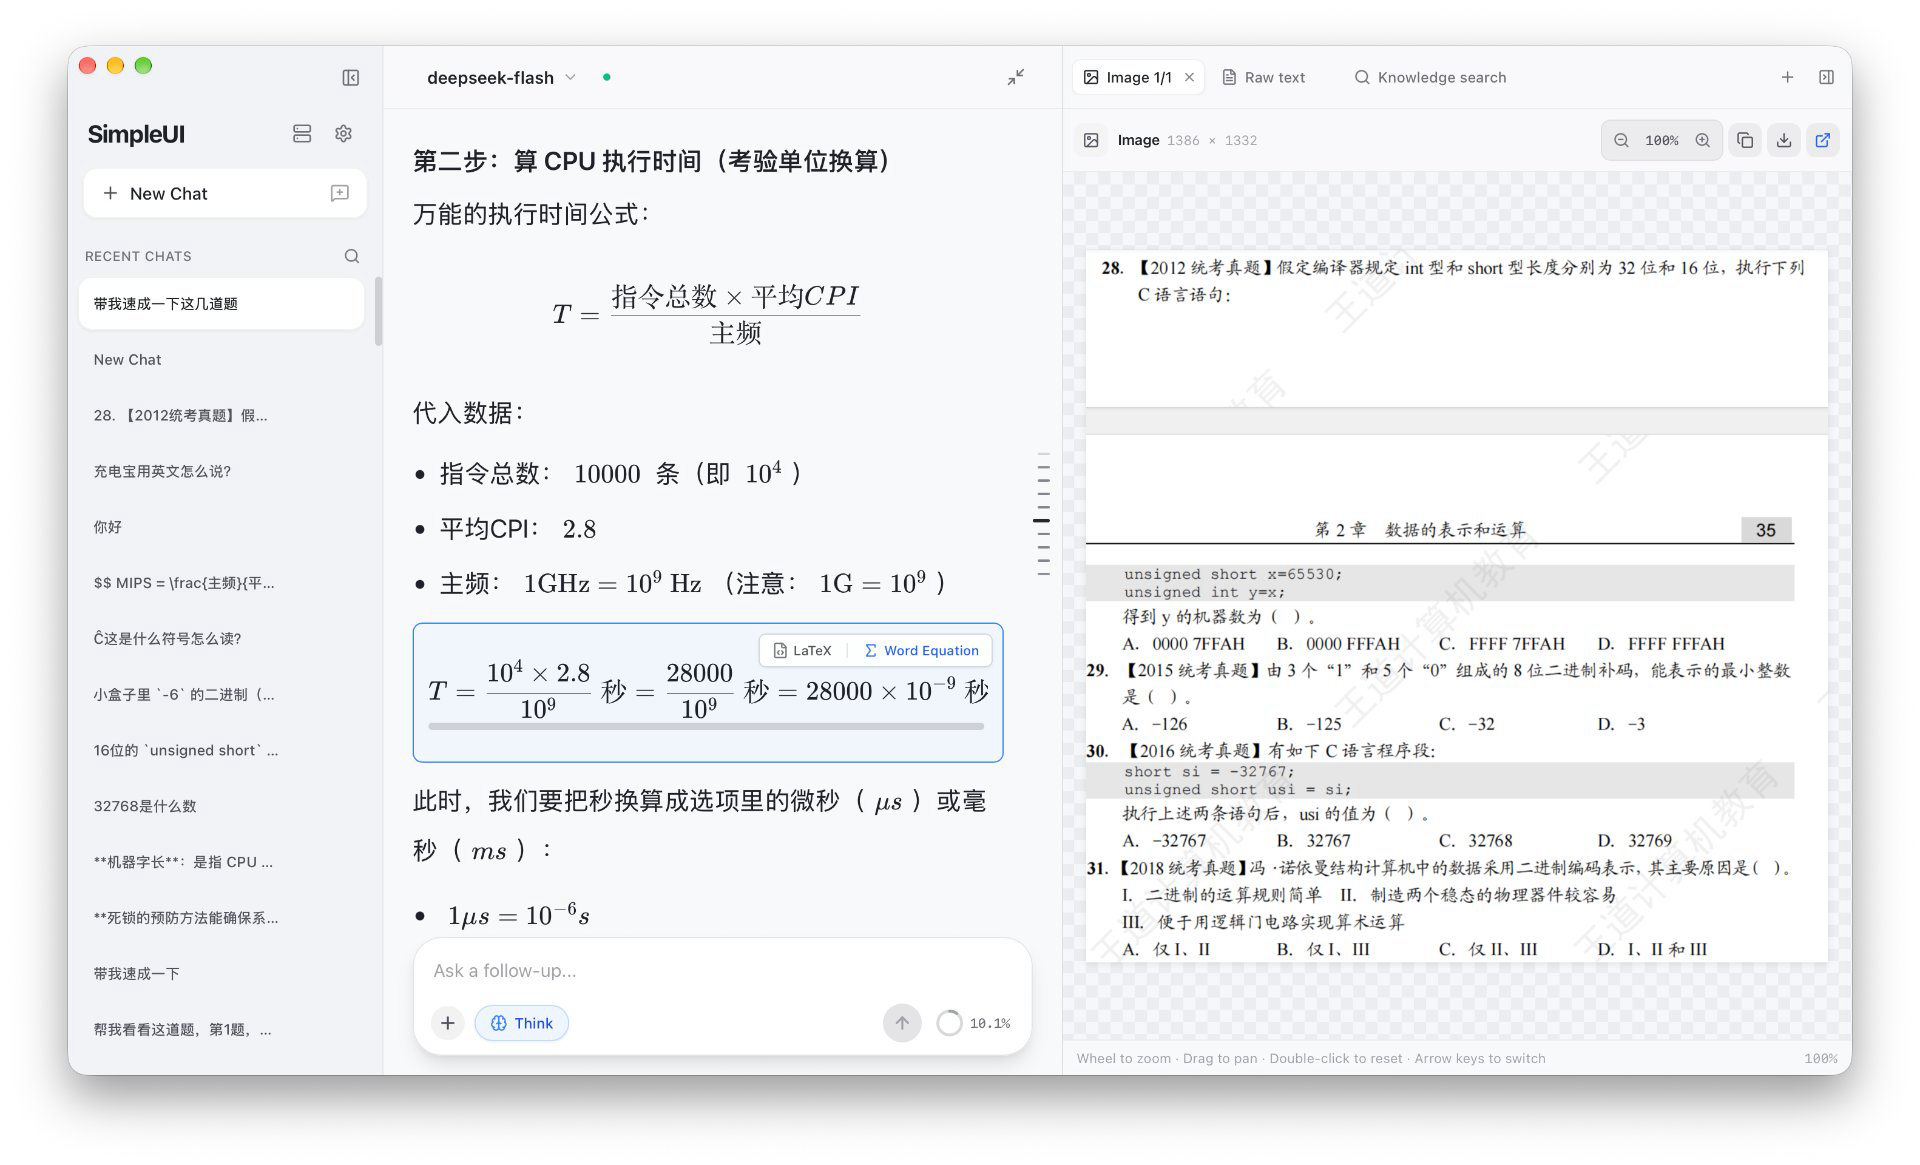
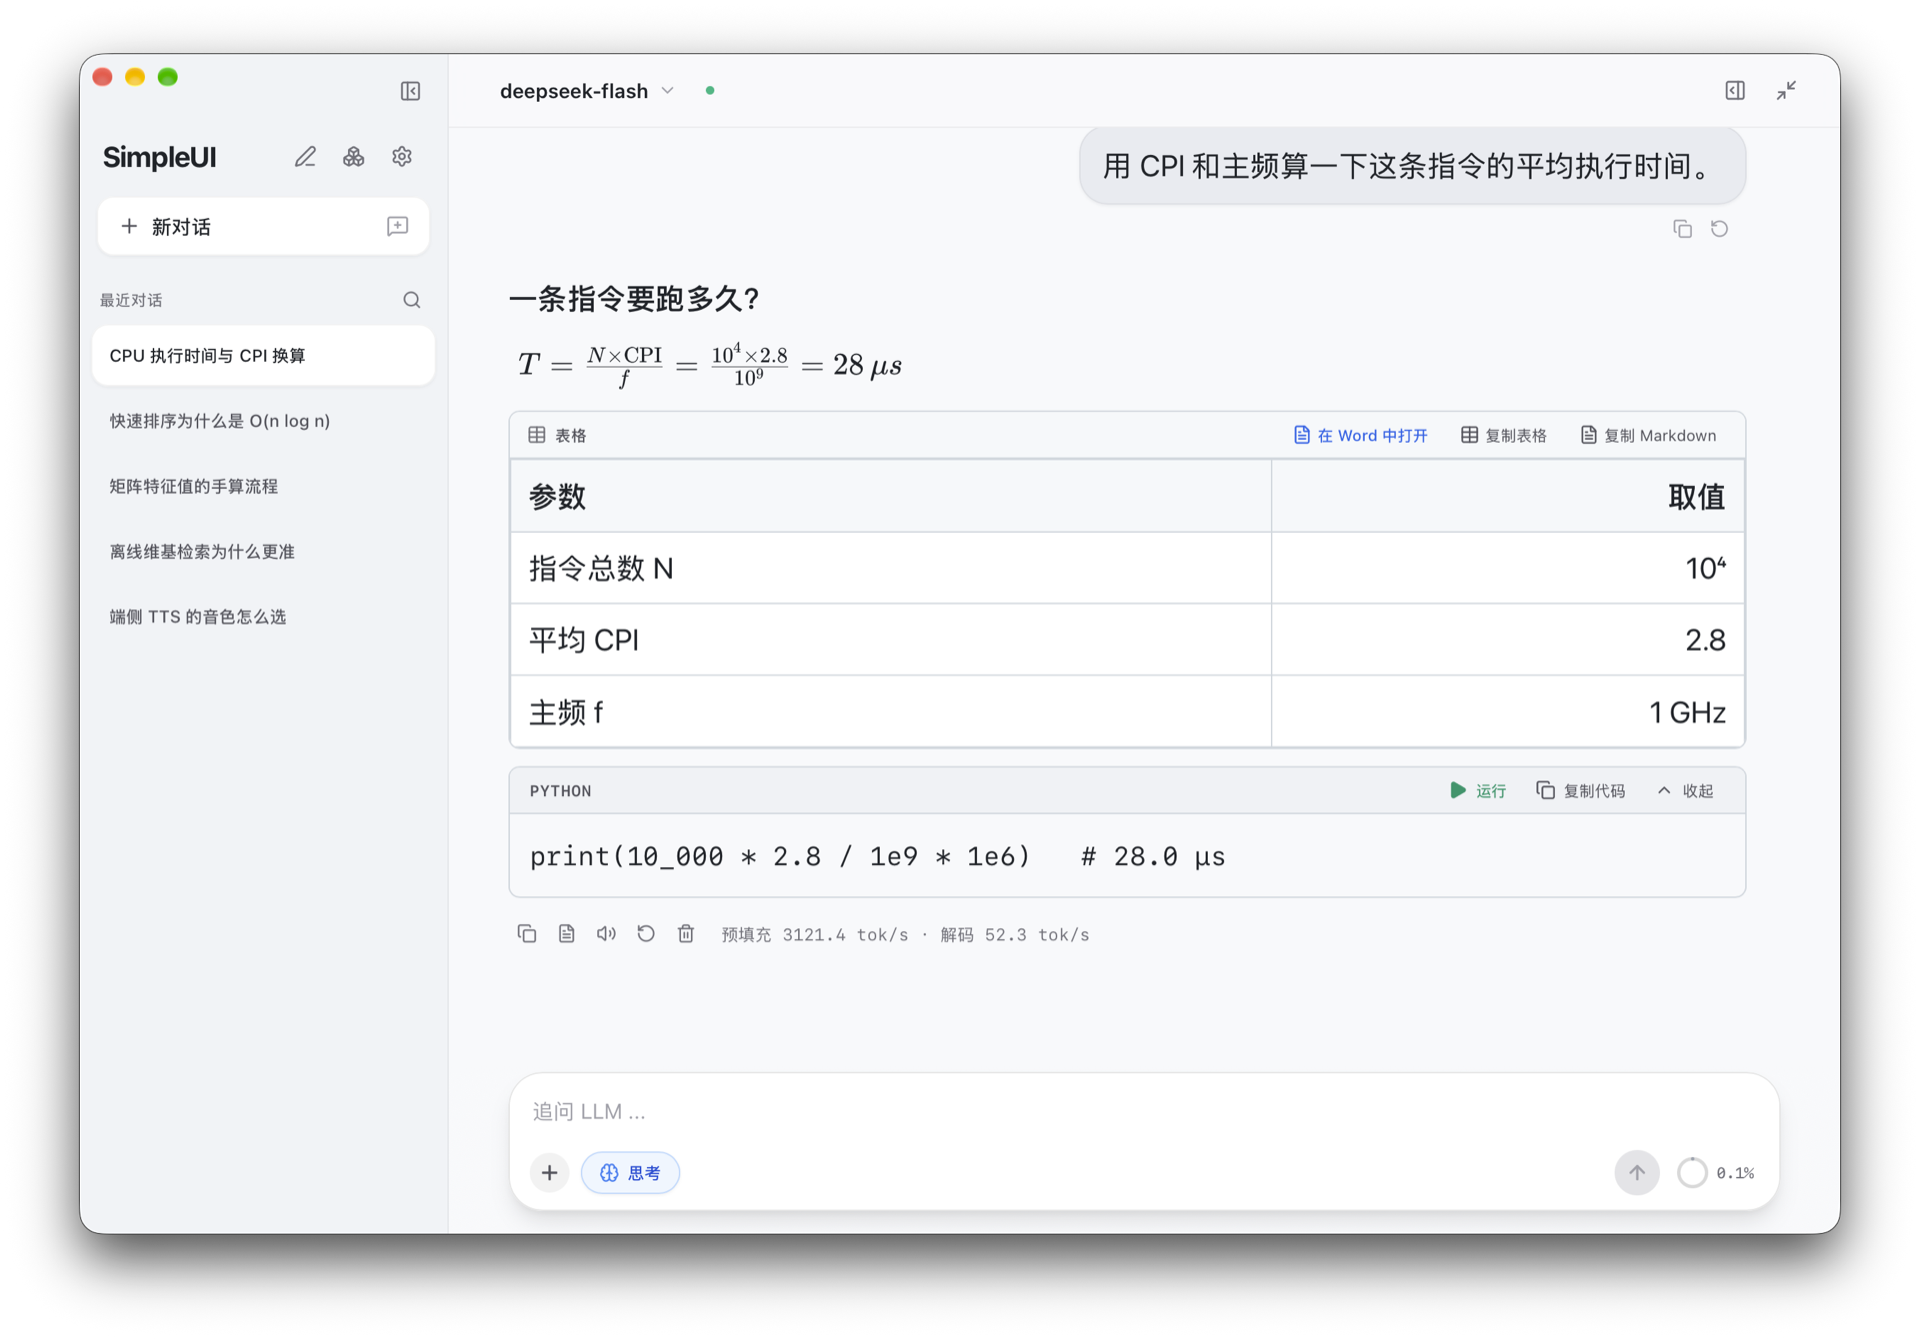
docs: 主界面预览改为中英双版截图（中文浅色 / 英文深色）
- main-cn.png 换成中文浅色界面，main-en.png 换成英文深色界面；
  之前两张是同一份英文截图（字节完全相同），中文版实际缺失。
- 截图用真实运行的主窗口抓取（含红绿灯与窗口阴影），示例会话展示
  Markdown 标题、KaTeX 行间公式、表格（Word/复制工具条）、Python 代码块与逐条性能指标。
- 两个 README 各自引用本语言的截图，图注互相指引另一版本。

diff --git a/README_EN.md b/README_EN.md
@@ -24,7 +24,7 @@ SimpleUI is deeply tuned for [TurboFieldfare](https://github.com/drumih/turbo-fi
 </p>
 
 <p align="center">
-  <sub>Main window · <a href="docs/assets/main-en.png">View full size</a></sub>
+  <sub>Main window (English dark theme; Chinese light theme in <a href="README.md">README.md</a>) · <a href="docs/assets/main-en.png">View full size</a></sub>
 </p>
 
 ---
